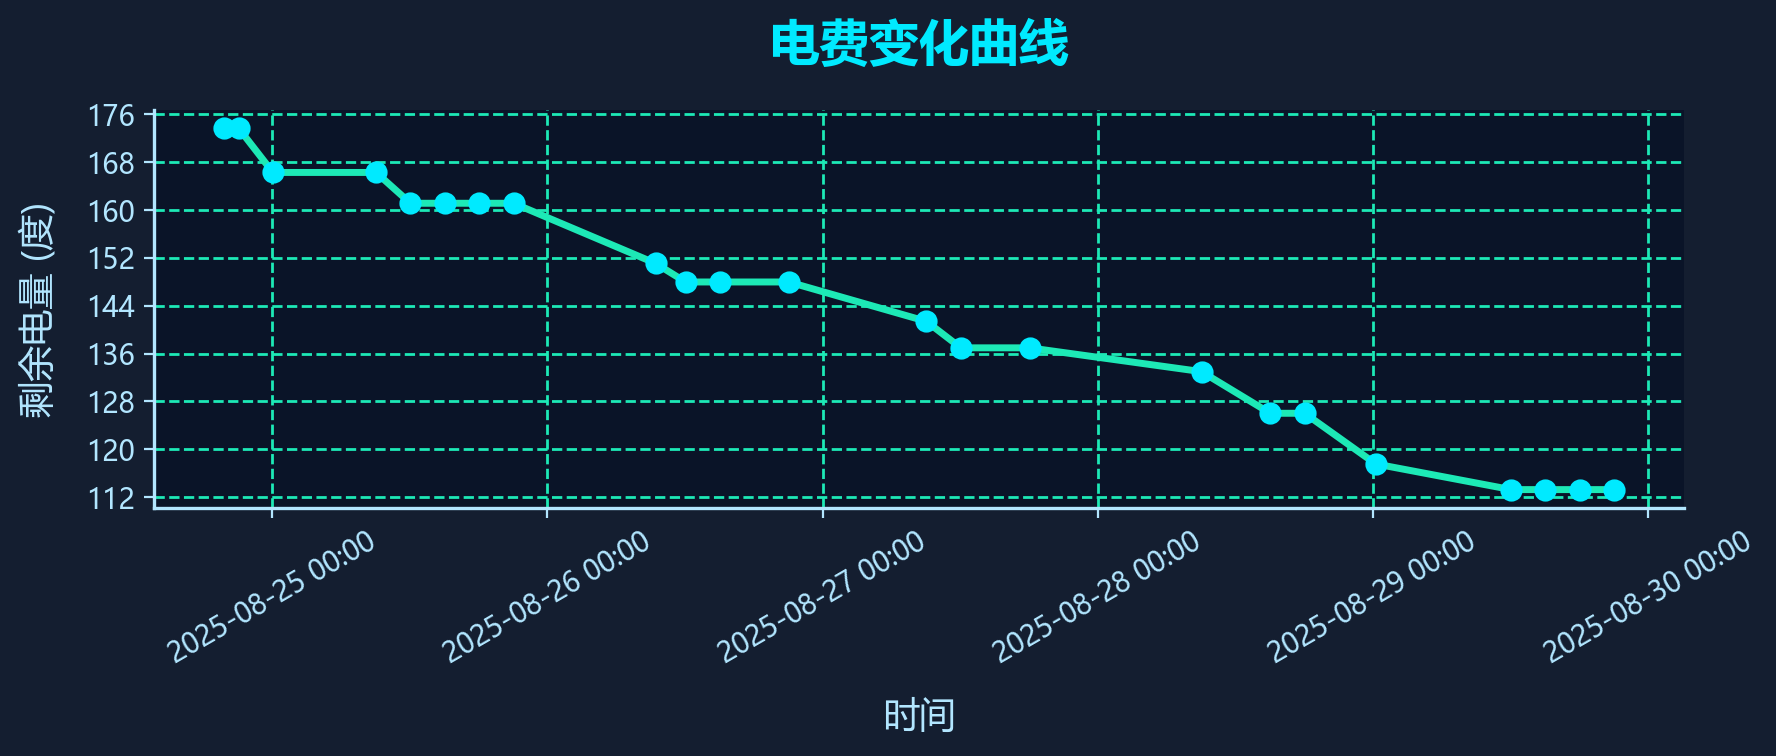
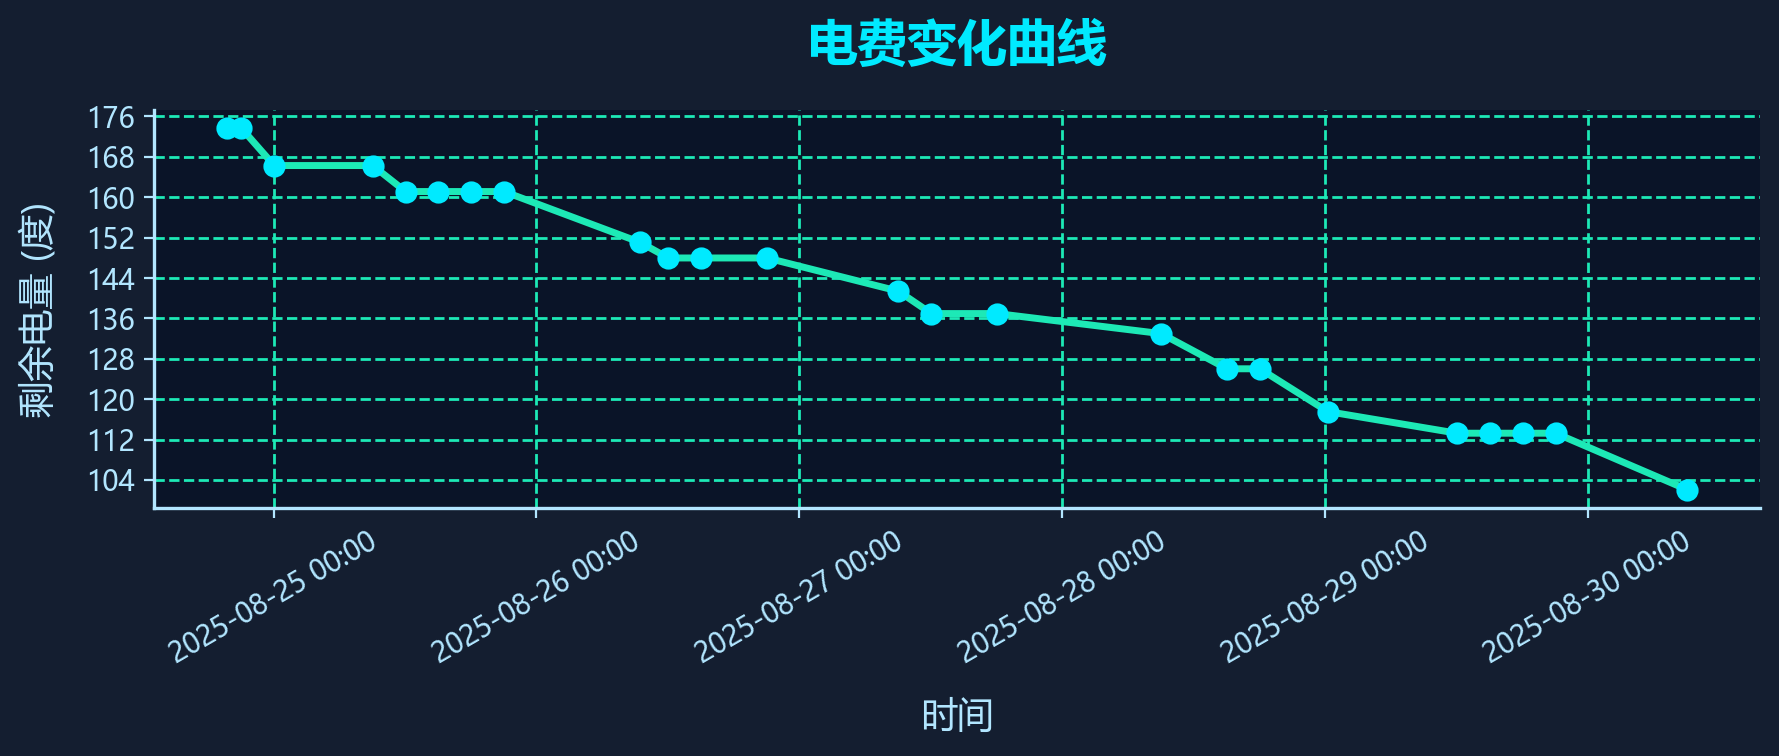
2025-08-30 09:03 自动提交电费变更

diff --git a/data/debug_page_source.html b/data/debug_page_source.html
@@ -2,7 +2,7 @@
     <meta http-equiv="Content-Type" content="text/html; charset=UTF-8">
     <meta http-equiv="X-UA-Compatible" content="IE=edge">
     <meta name="viewport" content="width=device-width, initial-scale=1, user-scalable=no">
-    <meta name="_csrf" content="18c2275f-fff2-4c6b-9c9f-3674263b4ebd">
+    <meta name="_csrf" content="90da6261-db77-4523-8d80-209d775e7337">
     <meta name="_csrf_header" content="X-CSRF-TOKEN">
     <link type="image/png" href="/epay/images/nju/icon.png" rel="shortcut icon">
     <link type="text/css" rel="stylesheet" href="/epay/css/wxpage/weui.min.css">
@@ -32,7 +32,7 @@
 
 
 <body>
-<div id="app"><div class="centent"><div class="top"><div class="clearfix"><span class="fl">持卡人姓名：<i>吴相民</i></span></div> <div class="clearfix"><span class="fl">校园卡余额：<i class="green">0.00元</i></span></div></div> <div class="line"></div> <div class="cont"><div class="clearfix"><span class="fl">缴费地址：<i>仙林校区 18幢 18栋第17层1702</i></span></div> <div class="clearfix"><span class="fl">剩余电量：<i>113.26度</i><em></em></span></div> <!----> <!----></div> <div class="num clearfix"><div style="display: flex; flex-wrap: wrap;"><span class="active">10元</span><span class="">20元</span><span class="">50元</span><span class="">100元</span><span class="">200元</span><span class="">自定义</span></div></div> <div class="inputbox" style="display: none;"><input type="text" placeholder="请输入充值金额" pattern="[0-9]*" maxlength="4" id="amount"></div> <div class="footer">充值</div> <div class="desc">充值时间：每天00:05-23:55</div> <div class="wapat"><div class="wapat-inner"><div class="wapat-title">错误！</div> <div class="wapat-btn-box"><div class="wapat-btn wapat-btn-ok">确定</div></div></div></div></div></div>
+<div id="app"><div class="centent"><div class="top"><div class="clearfix"><span class="fl">持卡人姓名：<i>吴相民</i></span></div> <div class="clearfix"><span class="fl">校园卡余额：<i class="green">0.00元</i></span></div></div> <div class="line"></div> <div class="cont"><div class="clearfix"><span class="fl">缴费地址：<i>仙林校区 18幢 18栋第17层1702</i></span></div> <div class="clearfix"><span class="fl">剩余电量：<i>102.09度</i><em></em></span></div> <!----> <!----></div> <div class="num clearfix"><div style="display: flex; flex-wrap: wrap;"><span class="active">10元</span><span class="">20元</span><span class="">50元</span><span class="">100元</span><span class="">200元</span><span class="">自定义</span></div></div> <div class="inputbox" style="display: none;"><input type="text" placeholder="请输入充值金额" pattern="[0-9]*" maxlength="4" id="amount"></div> <div class="footer">充值</div> <div class="desc">充值时间：每天00:05-23:55</div> <div class="wapat"><div class="wapat-inner"><div class="wapat-title">错误！</div> <div class="wapat-btn-box"><div class="wapat-btn wapat-btn-ok">确定</div></div></div></div></div></div>
 
 
 
